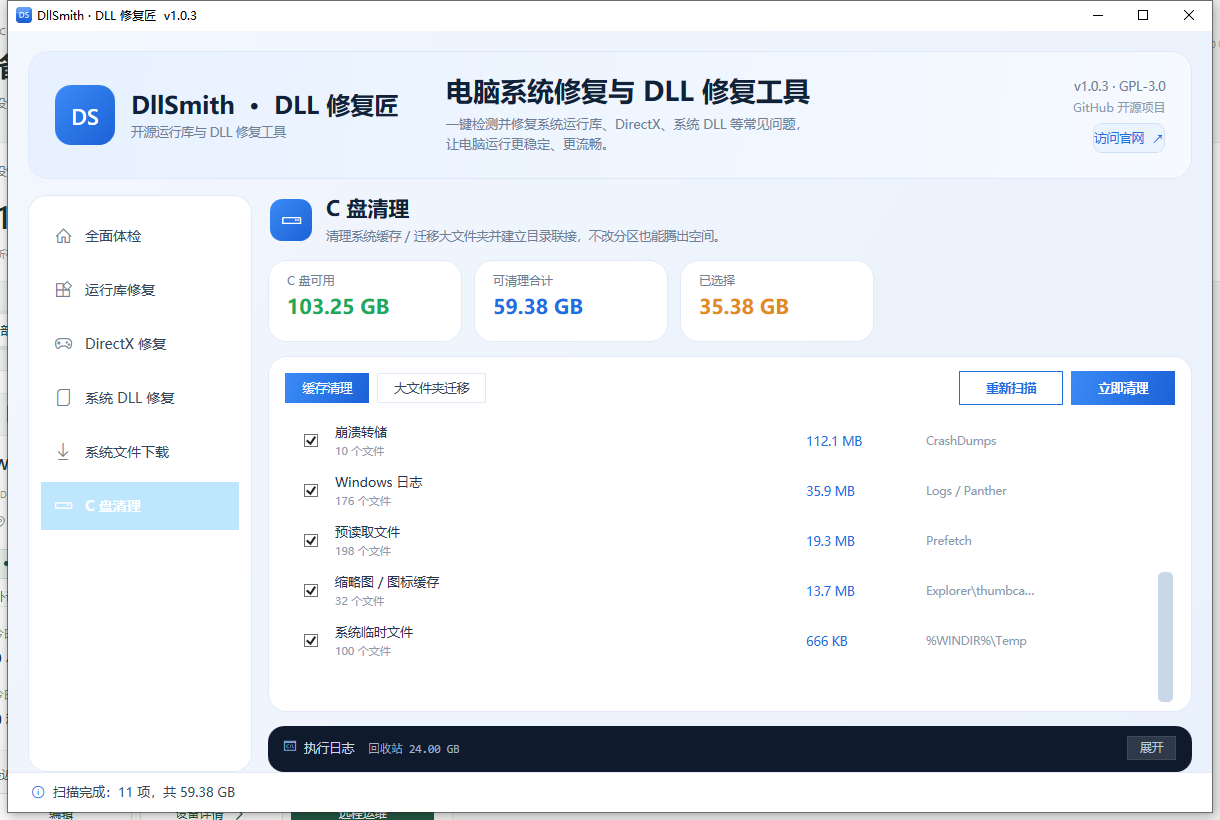
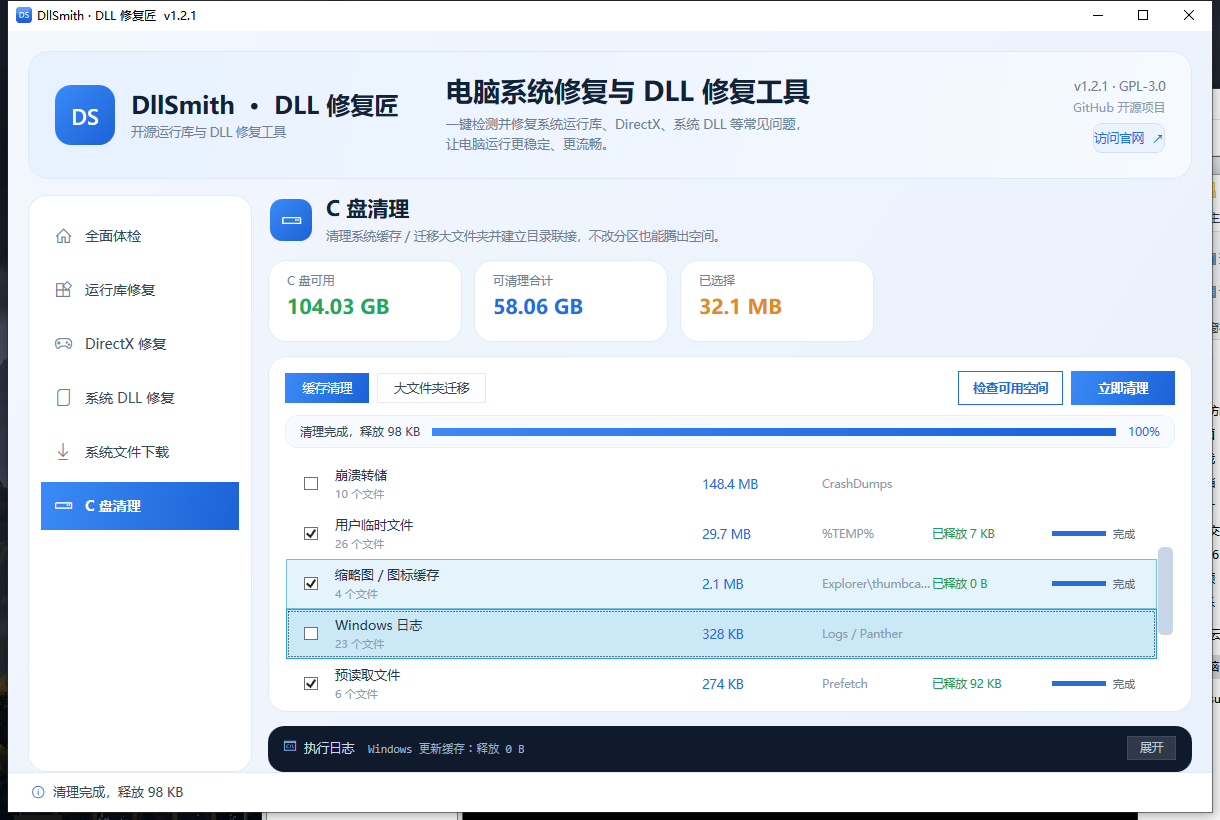
feat: 1.2.2 清理页进度条 + 单项进度（清理/修复）

diff --git a/src/Clean.cs b/src/Clean.cs
@@ -29,8 +29,36 @@ namespace DllFix.Ui
     // ── 数据模型 ────────────────────────────────────────────────────────────
     public enum CleanKind { Cache, BigFolder }
 
-    public class CleanItem
+    public class CleanItem : System.ComponentModel.INotifyPropertyChanged
     {
+        public event System.ComponentModel.PropertyChangedEventHandler PropertyChanged;
+
+        private int _percent;
+        private string _status = "";
+
+        private void Raise(string name)
+        {
+            System.ComponentModel.PropertyChangedEventHandler h = PropertyChanged;
+            if (h != null) h(this, new System.ComponentModel.PropertyChangedEventArgs(name));
+        }
+
+        /// <summary>单项进度 0-100（0 = 未开始）</summary>
+        public int Percent
+        {
+            get { return _percent; }
+            set { _percent = value; Raise("Percent"); Raise("PercentText"); Raise("HasPercent"); }
+        }
+
+        public string PercentText
+        {
+            get { return _percent <= 0 ? "" : (_percent >= 100 ? "完成" : _percent + "%"); }
+        }
+
+        public Visibility HasPercent
+        {
+            get { return _percent > 0 ? Visibility.Visible : Visibility.Collapsed; }
+        }
+
         public string Name { get; set; }
         public string Detail { get; set; }
         public string Path { get; set; }
@@ -38,7 +66,11 @@ namespace DllFix.Ui
         public int Files { get; set; }
         public bool Selected { get; set; }
         public CleanKind Kind { get; set; }
-        public string Status { get; set; }
+        public string Status
+        {
+            get { return _status; }
+            set { _status = value; Raise("Status"); }
+        }
 
         public string SizeText
         {
@@ -189,18 +221,32 @@ namespace DllFix.Ui
                     long after = RecycleBinSize();
                     long d = Math.Max(0, before - after);
                     freed += d;
+                    it.Percent = 100;
                     it.Status = "已清空 " + FormatSize(d);
                     if (log != null) log("回收站：释放 " + FormatSize(d));
                     continue;
                 }
 
+                it.Percent = 5;
                 long got = 0;
+                int totalFiles = Math.Max(1, it.Files);
+                int doneFiles = 0;
                 foreach (string root in (it.Path ?? "").Split(new string[] { " ; " }, StringSplitOptions.RemoveEmptyEntries))
                 {
-                    try { got += PurgePath(root, log); }
+                    try
+                    {
+                        got += PurgePath(root, log, delegate(int n)
+                        {
+                            doneFiles += n;
+                            int pct = 5 + (int)(90L * doneFiles / totalFiles);
+                            if (pct > 95) pct = 95;
+                            it.Percent = pct;
+                        });
+                    }
                     catch (Exception ex) { if (log != null) log("清理异常（已跳过）：" + it.Name + " - " + ex.Message); }
                 }
                 freed += got;
+                it.Percent = 100;
                 it.Status = "已释放 " + FormatSize(got);
                 if (log != null) log(string.Format("{0}：释放 {1}", it.Name, FormatSize(got)));
                 if (progress != null) progress((int)(idx * 100L / Math.Max(1, list.Count)), "已清理 " + it.Name);
@@ -208,7 +254,7 @@ namespace DllFix.Ui
             return freed;
         }
 
-        private static long PurgePath(string path, Action<string> log)
+        private static long PurgePath(string path, Action<string> log, Action<int> onFiles)
         {
             long freed = 0;
             try
@@ -237,7 +283,7 @@ namespace DllFix.Ui
                         foreach (string sub in new string[] { "Cache", "Code Cache", "GPUCache", "Service Worker", "CacheStorage" })
                         {
                             string p = Path.Combine(profile, sub);
-                            if (Directory.Exists(p)) freed += DeleteTree(p, log);
+                            if (Directory.Exists(p)) freed += DeleteTree(p, log, onFiles);
                         }
                     }
                     return freed;
@@ -247,12 +293,12 @@ namespace DllFix.Ui
                     foreach (string sub in new string[] { "temp", "Temp", "Crash", "crash", "log", "Log" })
                     {
                         string p = Path.Combine(path, sub);
-                        if (Directory.Exists(p)) freed += DeleteTree(p, log);
+                        if (Directory.Exists(p)) freed += DeleteTree(p, log, onFiles);
                     }
                     return freed;
                 }
 
-                freed += DeleteTreeContent(path, log);
+                freed += DeleteTreeContent(path, log, onFiles);
             }
             catch (Exception ex) { if (log != null) log("清理失败：" + ex.Message); }
             return freed;
@@ -264,9 +310,9 @@ namespace DllFix.Ui
             catch { return new string[0]; }
         }
 
-        private static long DeleteTree(string dir, Action<string> log)
+        private static long DeleteTree(string dir, Action<string> log, Action<int> onFiles)
         {
-            long freed = DeleteTreeContent(dir, log);
+            long freed = DeleteTreeContent(dir, log, onFiles);
             try { Directory.Delete(dir, true); } catch { }
             return freed;
         }
@@ -288,7 +334,7 @@ namespace DllFix.Ui
         }
 
         /// <summary>删除目录内容（保留目录本身）：迭代遍历、跳过联接、单文件失败只记录不中断</summary>
-        private static long DeleteTreeContent(string dir, Action<string> log)
+        private static long DeleteTreeContent(string dir, Action<string> log, Action<int> onFiles)
         {
             if (!IsAllowed(dir))
             {
@@ -317,6 +363,7 @@ namespace DllFix.Ui
                         File.SetAttributes(f, FileAttributes.Normal);
                         File.Delete(f);
                         freed += len;
+                        if (onFiles != null) onFiles(1);
                     }
                     catch { }               // 占用 / 权限不足：跳过
                 }
@@ -618,8 +665,29 @@ namespace DllFix.Ui
 
         private void Report(string text, int percent, bool busy)
         {
+            if (!Dispatcher.CheckAccess())
+            {
+                Dispatcher.BeginInvoke(new Action(delegate { Report(text, percent, busy); }));
+                return;
+            }
             Action<string, int, bool> h = StatusChanged;
             if (h != null) h(text, percent, busy);
+
+            // 页内进度条：忙碌时显示，跑完 100% 后稍后隐藏
+            if (busy || percent > 0)
+            {
+                _barHost.Visibility = Visibility.Visible;
+                _bar.IsIndeterminate = busy && percent <= 0;
+                if (percent > 0) _bar.Value = percent;
+                _barPct.Text = percent > 0 ? percent + "%" : "…";
+                if (text != null) _barText.Text = text;
+            }
+            else
+            {
+                _bar.Value = 100;
+                _barPct.Text = "100%";
+                _barText.Text = text == null ? "完成" : text;
+            }
         }
 
         private void LogLine(string line)
@@ -686,8 +754,9 @@ namespace DllFix.Ui
             card.Padding = new Thickness(16, 14, 16, 8);
 
             Grid g = new Grid();
-            g.RowDefinitions.Add(new RowDefinition { Height = GridLength.Auto });
-            g.RowDefinitions.Add(new RowDefinition());
+            g.RowDefinitions.Add(new RowDefinition { Height = GridLength.Auto });   // 工具条
+            g.RowDefinitions.Add(new RowDefinition { Height = GridLength.Auto });   // 进度条
+            g.RowDefinitions.Add(new RowDefinition());                              // 列表
 
             Grid bar = new Grid();
             bar.ColumnDefinitions.Add(new ColumnDefinition { Width = GridLength.Auto });
@@ -733,6 +802,50 @@ namespace DllFix.Ui
             bar.Children.Add(acts);
             g.Children.Add(bar);
 
+            // 页内进度条（检查 / 清理 / 迁移共用）
+            _barHost.Background = new SolidColorBrush(Color.FromRgb(0xF7, 0xFA, 0xFF));
+            _barHost.BorderBrush = new SolidColorBrush(Color.FromRgb(0xE7, 0xEF, 0xFB));
+            _barHost.BorderThickness = new Thickness(1);
+            _barHost.CornerRadius = new CornerRadius(12);
+            _barHost.Padding = new Thickness(14, 8, 14, 8);
+            _barHost.Margin = new Thickness(0, 10, 0, 0);
+            _barHost.Visibility = Visibility.Collapsed;
+
+            Grid pg = new Grid();
+            pg.ColumnDefinitions.Add(new ColumnDefinition { Width = GridLength.Auto });
+            pg.ColumnDefinitions.Add(new ColumnDefinition());
+            pg.ColumnDefinitions.Add(new ColumnDefinition { Width = GridLength.Auto });
+
+            _barText.Text = "准备中…";
+            _barText.FontSize = 12;
+            _barText.Foreground = Theme.TextBody;
+            _barText.VerticalAlignment = VerticalAlignment.Center;
+            _barText.Margin = new Thickness(0, 0, 12, 0);
+            pg.Children.Add(_barText);
+
+            _bar.Height = 8;
+            _bar.Minimum = 0;
+            _bar.Maximum = 100;
+            _bar.Value = 0;
+            _bar.Foreground = Theme.PrimarySoft;
+            _bar.Background = new SolidColorBrush(Color.FromRgb(0xE6, 0xEC, 0xF6));
+            _bar.BorderThickness = new Thickness(0);
+            _bar.VerticalAlignment = VerticalAlignment.Center;
+            Grid.SetColumn(_bar, 1);
+            pg.Children.Add(_bar);
+
+            _barPct.Text = "0%";
+            _barPct.FontSize = 12;
+            _barPct.Foreground = Theme.Primary;
+            _barPct.VerticalAlignment = VerticalAlignment.Center;
+            _barPct.Margin = new Thickness(12, 0, 0, 0);
+            Grid.SetColumn(_barPct, 2);
+            pg.Children.Add(_barPct);
+
+            _barHost.Child = pg;
+            Grid.SetRow(_barHost, 1);
+            g.Children.Add(_barHost);
+
             _list.ItemsSource = _items;
             _list.BorderThickness = new Thickness(0);
             _list.Background = Brushes.White;
@@ -741,7 +854,7 @@ namespace DllFix.Ui
             _list.ItemTemplate = BuildRow();
             _list.ItemContainerStyle = BuildRowStyle();
             _list.Resources.Add(typeof(ScrollBar), BuildScrollBar());
-            Grid.SetRow(_list, 1);
+            Grid.SetRow(_list, 2);
             g.Children.Add(_list);
 
             _placeholder = new TextBlock();
@@ -752,7 +865,7 @@ namespace DllFix.Ui
             _placeholder.Foreground = Theme.TextMuted;
             _placeholder.HorizontalAlignment = HorizontalAlignment.Center;
             _placeholder.VerticalAlignment = VerticalAlignment.Center;
-            Grid.SetRow(_placeholder, 1);
+            Grid.SetRow(_placeholder, 2);
             g.Children.Add(_placeholder);
 
             card.Child = g;
@@ -843,6 +956,10 @@ namespace DllFix.Ui
         }
 
         private StackPanel _targetBox;
+        private readonly Border _barHost = new Border();
+        private readonly ProgressBar _bar = new ProgressBar();
+        private readonly TextBlock _barText = new TextBlock();
+        private readonly TextBlock _barPct = new TextBlock();
         private TextBlock _placeholder;
 
         private Border StatCard(string title, TextBlock value, Color accent)
@@ -910,7 +1027,7 @@ namespace DllFix.Ui
   <Grid Height='48' Background='Transparent'>
     <Grid.ColumnDefinitions>
       <ColumnDefinition Width='48'/><ColumnDefinition Width='*'/><ColumnDefinition Width='120'/>
-      <ColumnDefinition Width='110'/><ColumnDefinition Width='120'/>
+      <ColumnDefinition Width='110'/><ColumnDefinition Width='120'/><ColumnDefinition Width='104'/>
     </Grid.ColumnDefinitions>
     <CheckBox IsChecked='{Binding Selected, Mode=TwoWay}' HorizontalAlignment='Center'
               VerticalAlignment='Center'/>
@@ -924,6 +1041,12 @@ namespace DllFix.Ui
                Foreground='#8B9BB0' VerticalAlignment='Center' TextTrimming='CharacterEllipsis'/>
     <TextBlock Grid.Column='4' Text='{Binding Status}' FontSize='11.5'
                Foreground='#1E9A5A' VerticalAlignment='Center'/>
+    <StackPanel Grid.Column='5' Orientation='Horizontal' VerticalAlignment='Center'
+                Visibility='{Binding HasPercent}'>
+      <ProgressBar Width='54' Height='5' Minimum='0' Maximum='100' Value='{Binding Percent}'
+                   Foreground='#2A6CD8' Background='#E6ECF6' BorderThickness='0'/>
+      <TextBlock Text='{Binding PercentText}' FontSize='11' Foreground='#5A6B80' Margin='7,0,0,0'/>
+    </StackPanel>
   </Grid>
 </DataTemplate>";
             return (DataTemplate)XamlReader.Parse(xaml);
@@ -1068,8 +1191,8 @@ namespace DllFix.Ui
                         {
                             Report("清理完成，释放 " + CleanEngine.FormatSize(freedFinal), 0, false);
                             MessageBox.Show("清理完成，释放 " + CleanEngine.FormatSize(freedFinal) + "。\n\n详情见日志面板。", "完成");
+                            // 保留列表：每行保留「完成」与已释放大小，便于核对
                         }
-                        BeginScan();
                     }));
                 });
                 t.IsBackground = true;

diff --git a/src/Ui.cs b/src/Ui.cs
@@ -1099,6 +1099,7 @@ namespace DllFix.Ui
                 "        <ColumnDefinition Width='100'/>" +
                 "        <ColumnDefinition Width='150'/>" +
                 "        <ColumnDefinition Width='120'/>" +
+                "        <ColumnDefinition Width='104'/>" +
                 "      </Grid.ColumnDefinitions>" +
                 "      <CheckBox IsChecked='{Binding Selected, Mode=TwoWay}' HorizontalAlignment='Center' VerticalAlignment='Center'/>" +
                 "      <StackPanel Grid.Column='1' Orientation='Horizontal' Margin='8,0,12,0'>" +
@@ -1111,6 +1112,14 @@ namespace DllFix.Ui
                 "      </Border>" +
                 "      <TextBlock Grid.Column='3' Text='{Binding Version}' FontFamily='Consolas' FontSize='12.5'" +
                 "                 Foreground='#5A6B80' VerticalAlignment='Center' Margin='8,0,0,0'/>" +
+                "      <StackPanel Grid.Column='5' Orientation='Horizontal' VerticalAlignment='Center'" +
+                "                  Visibility='{Binding HasPercent}'>" +
+                "        <ProgressBar Width='54' Height='5' Minimum='0' Maximum='100' Value='{Binding Percent}'" +
+                "                     Foreground='#2A6CD8' Background='#E6ECF6' BorderThickness='0'" +
+                "                     VerticalAlignment='Center'/>" +
+                "        <TextBlock Text='{Binding PercentText}' FontSize='11' Foreground='#5A6B80'" +
+                "                   Margin='7,0,0,0' VerticalAlignment='Center'/>" +
+                "      </StackPanel>" +
                 "      <Border Grid.Column='4' HorizontalAlignment='Left' VerticalAlignment='Center' CornerRadius='10' Padding='11,3'" +
                 "              Background='#E9F8F0' BorderBrush='#CFEBD9' BorderThickness='1'>" +
                 "        <Border.Style>" +
@@ -1424,6 +1433,7 @@ namespace DllFix.Ui
             {
                 Dispatcher.BeginInvoke(new Action(delegate
                 {
+                    item.Percent = pct;
                     Report(string.Format("{0}：{1}", item.Title, msg), pct, false);
                 }));
             };

diff --git a/src/Core.cs b/src/Core.cs
@@ -10,6 +10,7 @@ using System;
 using System.Collections.Generic;
 using System.Collections.ObjectModel;
 using System.ComponentModel;
+using System.Windows;
 using System.Diagnostics;
 using System.Globalization;
 using System.IO;
@@ -147,7 +148,7 @@ namespace DllFix.Core
         public const string ProductName = "DllSmith";
         public const string ChineseName = "DLL 修复匠";
         public const string Tagline = "开源运行库与 DLL 修复工具";
-        public const string Version = "1.2.1";
+        public const string Version = "1.2.2";
         public const string License = "GPL-3.0";
         public const string SiteUrl  = "http://123.57.94.141:8787/download";
         public const string BuildTag = "opensource";
@@ -323,7 +324,18 @@ namespace DllFix.Core
         public int Percent
         {
             get { return _percent; }
-            set { _percent = value; Raise("Percent"); }
+            set { _percent = value; Raise("Percent"); Raise("PercentText"); Raise("HasPercent"); }
+        }
+
+        /// <summary>行内进度文案：0 表示未开始</summary>
+        public string PercentText
+        {
+            get { return _percent <= 0 ? "" : (_percent >= 100 ? "完成" : _percent + "%"); }
+        }
+
+        public Visibility HasPercent
+        {
+            get { return _percent > 0 ? Visibility.Visible : Visibility.Collapsed; }
         }
 
         public string StateText
